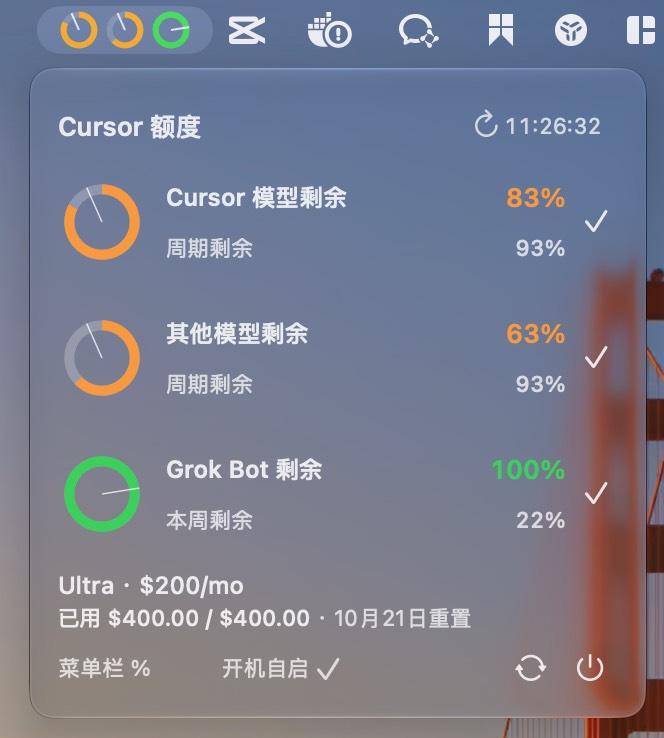
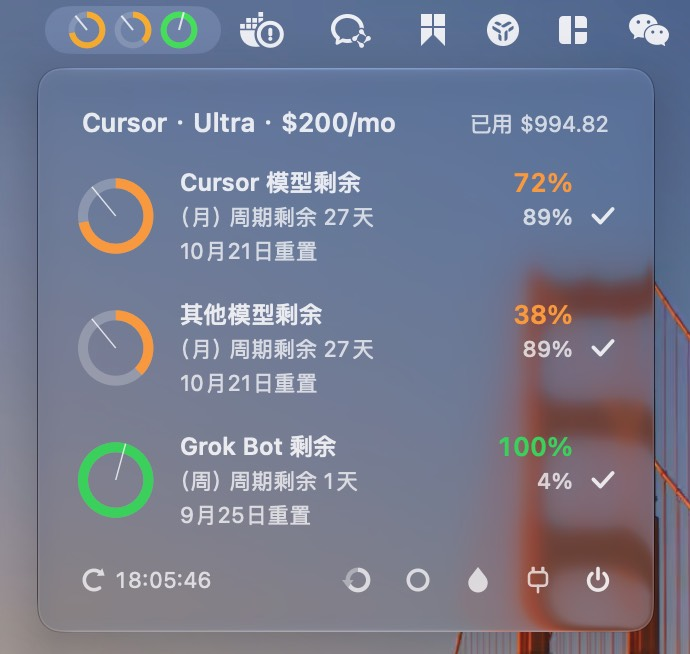
docs(readme): 更新面板截图并补充菜单栏样式图

diff --git a/README.md b/README.md
@@ -1,21 +1,28 @@
-# 📊 macOS 菜单栏展示 Cursor 额度
+# macOS 菜单栏展示 Cursor 额度
 
 ![菜单栏圆环和明细面板](docs/panel.jpg)
 
-三个额度分别为 Cursor 模型、其他模型和 Grok Bot 周额度
+在 macOS 的菜单栏展示你现在使用的 Cursor 账号用量情况，三个额度分别为 Cursor 模型、其他模型和 Grok Bot 周额度，需要本机已经使用并登录过 Cursor
 
-## ✨ 功能
+## ✨ 功能介绍
 
-菜单栏展示余量圆环和百分比，三种额度可以自己选显示哪些，百分比可隐藏
+样式
 
-- **彩色弧**：账期里还剩多少用量
-- **径向短线**：账期还剩多少时间
+![三个彩色圆环](docs/menubar-rings.jpg)
+
+![圆环带百分比](docs/menubar-percent.jpg)
+
+![单色圆环](docs/menubar-mono.jpg)
+
+![单个圆环带百分比](docs/menubar-single.jpg)
+
 - **绿色**：剩余用量跟得上剩余时间
-- **橙色**：用量比时间花得更快
+- **橙色**：用量比时间走得更快
 - **红色**：剩余用量低于 15%
-- 数据时间距离现在超过 30 分钟时，圆环旁标橙点
-
-点开查看明细，点击勾选控制菜单栏展示，可拖动排序
+- **径向短线**：账期时间
+- 数据时间距离现在超过 30 分钟时，圆环旁会标橙点
+- 展示与隐藏某一项：点选
+- 修改顺序：拖动
 
 ### 🔄 刷新频率
 
@@ -23,7 +30,7 @@
     - 每 5 分钟拉一次额度
     - 每 1 分钟重算剩余时间刻度
 - **Cursor Agent 回答完毕**：收到 hook 调用后 3 秒
-- **手动**：立刻拉
+- **手动**：
     - 点「刷新」
     - 命令行
 
